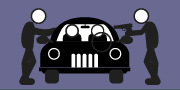
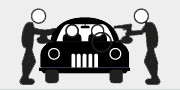
Changed bg colors for images. Fixed errors in mouseenter and exit for map. Changed bg color for buttons

diff --git a/js/demers.js b/js/demers.js
@@ -341,37 +341,57 @@
               fill: function(d) { return getNode(d.name).color;}
           },
           mouseenter: function(d, path) {
-              path.attr('stroke', '#000000');
-              var index = keysArray.map(function(x) {return x.state; }).indexOf(d.name);
-              chart.series[0].data[index].select();
+              borderStateGeoMap(d.name, '#000000');
               currentNodo = getNode(d.name);
-              showTooltip(d.name, currentNodo.value, currentNodo.x, currentNodo.y);
-          }, 
-          mouseleave: function(d, path) {
-              path.attr('stroke', '#ffffff'); 
-              var index = keysArray.map(function(x) {return x.state; }).indexOf(d.name);
-              chart.series[0].data[index].select(false);
+              if (currentNodo.value!=-1){ //select list item just if it exists
+                var index = keysArray.map(function(x) {return x.state; }).indexOf(d.name);
+                chart.series[0].data[index].select();  
+                showTooltip(d.name, currentNodo.value, currentNodo.x, currentNodo.y);
+              }
+              else{
+                showTooltip(d.name, "NA", currentNodo.x, currentNodo.y);
+              }
+              
+            }, 
+            mouseleave: function(d, path) {
+              borderStateGeoMap(d.name, '#ffffff');
+              if (currentNodo.value!=-1){ //select list item just if it exists
+                var index = keysArray.map(function(x) {return x.state; }).indexOf(d.name);
+                chart.series[0].data[index].select(false);
+              }
               hideTooltip();
-          }
+            }
       });
       //values
       map.addSymbols({
             type: kartograph.Label,
             data: centroids,
             location: function(d) { return [d.geo_longitude, d.geo_latitude] },
-            text: function(d) { return getNode(d.state).value; },
+            text: function(d) { 
+                  var val = getNode(d.state).value;
+                  if (val==-1)
+                    val = "NA"
+                  return val},
             style: function(d){ return "font-size:"+getNode(d.state).value+"px;"},
             mouseenter: function(d, path) {
               currentNodo = getNode(d.state);
               borderStateGeoMap(d.state, '#000000');
-              var index = keysArray.map(function(x) {return x.state; }).indexOf(d.state);
-              chart.series[0].data[index].select();
-              showTooltip(d.state, currentNodo.value, currentNodo.x, currentNodo.y);
+              if (currentNodo.value!=-1){ //select list item just if it exists
+                var index = keysArray.map(function(x) {return x.state; }).indexOf(d.state);
+                chart.series[0].data[index].select();  
+                showTooltip(d.state, currentNodo.value, currentNodo.x, currentNodo.y);
+              }
+              else{                
+                showTooltip(d.state, "NA", currentNodo.x, currentNodo.y);
+              }
+              
             }, 
             mouseleave: function(d, path) {
               borderStateGeoMap(d.state, '#ffffff');
-              var index = keysArray.map(function(x) {return x.state; }).indexOf(d.state);
-              chart.series[0].data[index].select(false);
+              if (currentNodo.value!=-1){ //select list item just if it exists
+                var index = keysArray.map(function(x) {return x.state; }).indexOf(d.state);
+                chart.series[0].data[index].select(false);
+              }
               hideTooltip();
             }
         });
@@ -381,18 +401,25 @@
             data: centroids,
             location: function(d) { return [d.geo_longitude, d.geo_latitude-0.4] },
             text: function(d) { return d.state; },
-            //style: function(d){ return "font-family:Helvetica; font-weight:bold font-size:"+getNode(d.state).value+"px;"},
             mouseenter: function(d, path) {
               currentNodo = getNode(d.state);
               borderStateGeoMap(d.state, '#000000');
-              var index = keysArray.map(function(x) {return x.state; }).indexOf(d.state);
-              chart.series[0].data[index].select();
-              showTooltip(d.state, currentNodo.value, currentNodo.x, currentNodo.y);
+              if (currentNodo.value!=-1){ //select list item just if it exists
+                var index = keysArray.map(function(x) {return x.state; }).indexOf(d.state);
+                chart.series[0].data[index].select();  
+                showTooltip(d.state, currentNodo.value, currentNodo.x, currentNodo.y);
+              }
+              else{
+                showTooltip(d.state, "NA", currentNodo.x, currentNodo.y);
+              }
+              
             }, 
             mouseleave: function(d, path) {
               borderStateGeoMap(d.state, '#ffffff');
-              var index = keysArray.map(function(x) {return x.state; }).indexOf(d.state);
-              chart.series[0].data[index].select(false);
+              if (currentNodo.value!=-1){ //select list item just if it exists
+                var index = keysArray.map(function(x) {return x.state; }).indexOf(d.state);
+                chart.series[0].data[index].select(false);
+              }
               hideTooltip();
             }
           });
@@ -411,19 +438,29 @@
                 type: kartograph.Label,
                 data: centroids,
                 location: function(d) { return [d.geo_longitude, d.geo_latitude] },
-                text: function(d) { return getNode(d.state).value; },
-                //style: function(d){ return "font-family:Helvetica; font-weight:bold font-size:"+getNode(d.state).value+"px;"},
+                text: function(d) { 
+                  var val = getNode(d.state).value;
+                  if (val==-1)
+                    val = "NA"
+                  return val},
                 mouseenter: function(d, path) {
                   currentNodo = getNode(d.state);
                   borderStateGeoMap(d.state, '#000000');
-                  var index = keysArray.map(function(x) {return x.state; }).indexOf(d.state);
-                  chart.series[0].data[index].select();
-                  showTooltip(d.state, currentNodo.value, currentNodo.x, currentNodo.y);
+                  if (currentNodo.value!=-1){ //select list item just if it exists
+                    var index = keysArray.map(function(x) {return x.state; }).indexOf(d.state);
+                    chart.series[0].data[index].select();  
+                    showTooltip(d.state, currentNodo.value, currentNodo.x, currentNodo.y);
+                  }
+                  else{                    
+                    showTooltip(d.state, "NA", currentNodo.x, currentNodo.y);
+                  }
                 }, 
                 mouseleave: function(d, path) {
                   borderStateGeoMap(d.state, '#ffffff');
-                  var index = keysArray.map(function(x) {return x.state; }).indexOf(d.state);
-                  chart.series[0].data[index].select(false);
+                  if (currentNodo.value!=-1){ //select list item just if it exists
+                    var index = keysArray.map(function(x) {return x.state; }).indexOf(d.state);
+                    chart.series[0].data[index].select(false);
+                  }
                   hideTooltip();
                 }
             });
@@ -433,18 +470,24 @@
                 data: centroids,
                 location: function(d) { return [d.geo_longitude, d.geo_latitude-0.4] },
                 text: function(d) { return d.state; },
-                //style: function(d){ return "font-family:Helvetica; font-weight:bold font-size:"+getNode(d.state).value+"px;"},
                 mouseenter: function(d, path) {
                   currentNodo = getNode(d.state);
                   borderStateGeoMap(d.state, '#000000');
-                  var index = keysArray.map(function(x) {return x.state; }).indexOf(d.state);
-                  chart.series[0].data[index].select();
-                  showTooltip(d.state, currentNodo.value, currentNodo.x, currentNodo.y);
+                  if (currentNodo.value!=-1){ //select list item just if it exists
+                    var index = keysArray.map(function(x) {return x.state; }).indexOf(d.state);
+                    chart.series[0].data[index].select();  
+                    showTooltip(d.state, currentNodo.value, currentNodo.x, currentNodo.y);
+                  }
+                  else{                    
+                    showTooltip(d.state, "NA", currentNodo.x, currentNodo.y);
+                  }
                 }, 
                 mouseleave: function(d, path) {
                   borderStateGeoMap(d.state, '#ffffff');
-                  var index = keysArray.map(function(x) {return x.state; }).indexOf(d.state);
-                  chart.series[0].data[index].select(false);
+                  if (currentNodo.value!=-1){ //select list item just if it exists
+                    var index = keysArray.map(function(x) {return x.state; }).indexOf(d.state);
+                    chart.series[0].data[index].select(false);
+                  }
                   hideTooltip();
                 }
               });
@@ -452,7 +495,6 @@
           d3.selectAll("#map.kartograph tspan")
             .data(GNODE)
             .style("font-size", function(d) { return fontSize(d.value) + "px"; });
-          //$('text:contains("Chihuahua")').attr("font-size","20px");
       }
 
       borderStateGeoMap = function (name, color){

diff --git a/css/d3components.css b/css/d3components.css
@@ -11,7 +11,7 @@
     height: 650px;
     float: left;
     position: relative;
-    z-index: 2;
+    
 }
 
 #map {
@@ -173,24 +173,8 @@ stroke: none;
     color: #555;
 }
 
-#btnHomicide.active{
-	background-image: linear-gradient(to bottom, #711a26 0px, #a8787f 100%);
-}
-#btnKidnap.active{
-	background-image: linear-gradient(to bottom, #96adbd 0px, #C5D0D7 100%);
-}
-#btnExtortion.active{
-	background-image: linear-gradient(to bottom, #ae560d 0px, #C89469 100%);
-}
-#btnCarNoViolence.active{
-	background-image: linear-gradient(to bottom, #3b615f 0px, #839998 100%);
-}
-#btnCarViolence.active{
-	background-image: linear-gradient(to bottom, #6b6694 0px, #8D8AAB 100%);
-}
-
 #botones-box > .list-group-item.active {
-    /*background-image: linear-gradient(to bottom, #711a26 0px, #a8787f 100%);*/
+    background-image: linear-gradient(to bottom, #96adbd 0px, #C5D0D7 100%);
     background-repeat: repeat-x;
     border-color: #eee;
     text-shadow: 0 -1px 0 #3071a9;

diff --git a/index.html b/index.html
@@ -100,7 +100,7 @@
             }
           $("#slider").slider("value", GYEAR+=1);
         }
-        //resInterval = setInterval(changeYear, 600); //starts the animation
+        resInterval = setInterval(changeYear, 600); //starts the animation
 
          $("#play-button").click(function(){
             GYEAR=1996;
